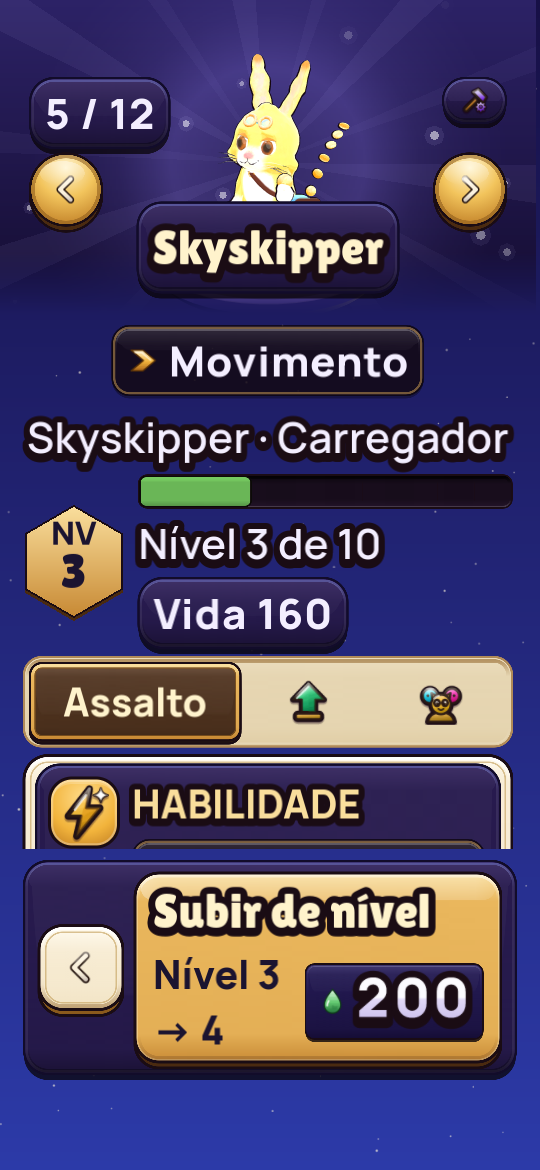
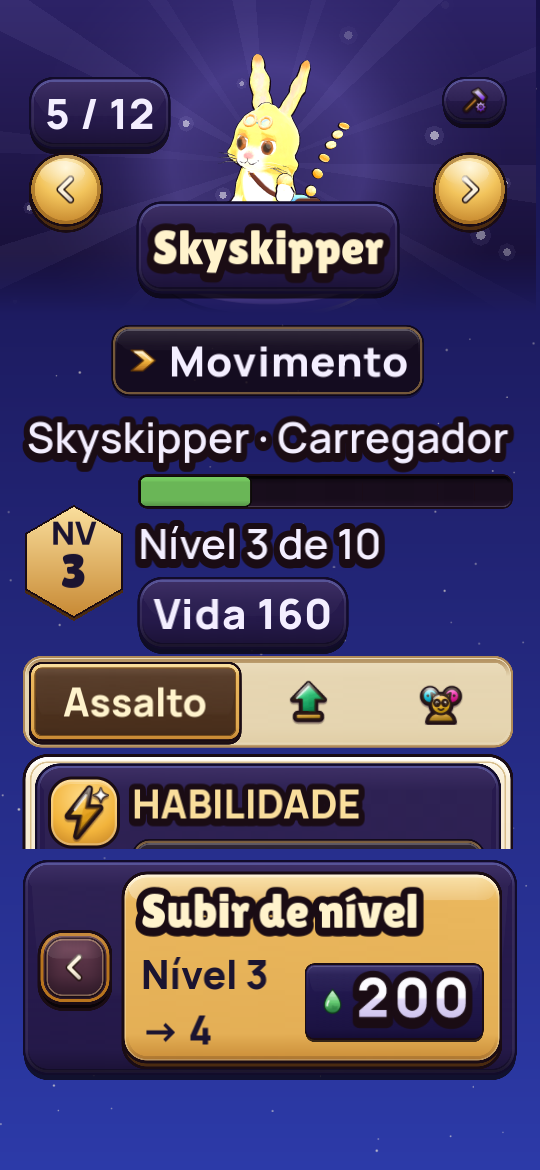
S3: P3-S3-nav-1 stills re-shot and named; the back named in the record; S3-R40, S3-R41 asked
Claude-Session: https://claude.ai/code/session_01SNkKxqvCzT3bnuPzL5KvLH

Changed region(s): [[0.0593, 0.7385, 0.8296, 0.9231]]

diff --git a/docs/progress/S3.md b/docs/progress/S3.md
@@ -1,9 +1,9 @@
 # S3 character and settings screens: progress
 
-- Status: Waiting. P3-S3-character-5 (the kit's calls on the character screen, AD-R53, AD-R58) is ready at 3053cf6d (pre-check PASS, 16:54:36Z, recorded); AD previewed it in P3-AD-preview-1 (S3-R34).
-- Progress: P2-S3-character-4 and P2-S3-account-4 ready earlier. P3-S3-character-5: five local fixes replaced by the kit's calls, the offline notice on the cream plate, the large-text outline measured at 12.5% to 14% a side at 200% pt_BR.
-- Done: the kit's calls (S3-R9 to S3-R14), AD-R53, AD-R58; `fit_character.sh` 50 of 50.
-- Next: the lead's gate and merge; AD's preview (P3-AD-preview-1).
+- Status: Working. P3-S3-nav-1 (AD-R50, AD-R51, AD-R63, AD-R64 on the character and roster screens) is built and its stills re-shot; the checks, main merged, the pre-check and ready remain. P3-S3-character-5 is ready at 3053cf6d.
+- Progress: P3-S3-nav-1: the character's back is ScreenNav.back_button and routes to the roster with its kept state; the roster keeps its scroll and chosen character; the offline notice is info, one line at large text. Mount tests in run.gd; 19 stills re-shot, every one fit ok.
+- Done: AD-R50, AD-R51, AD-R63, AD-R64; `fit_character.sh` 53 of 53.
+- Next: the checks, main merged, the pre-check, the owners diff and ready; AD's preview (S3-R40).
 - Blocked by: none.
 - Owner decision needed: none.
 
@@ -19,8 +19,16 @@
 | P2-S3-account-4: board 5c's M (AD-R43), the sign-outs on the account card | 1 | ready at 635c33ee, pre-check PASS | `docs/art/tracks/menu-screens.md` Part 3 "Board 5c's objection M"; `docs/art/shots/menu-screens/settings-account-signed-*`, `settings-200-de-account-signed*`; `fit_settings.sh` |
 | P2-S3-character-4: the gate's display-type fail at a6d5f2fb (200% text, pt_BR) | 1.5 | ready at ee67dcea, pre-check PASS; S3-R31 default applied | `docs/art/tracks/menu-screens.md` Part 2 "The gate's display-type check at a6d5f2fb"; `docs/art/shots/menu-screens/character-200-*`; `fit_character.sh` |
 | P3-S3-character-5: the kit's calls on the character screen, the cream notice (AD-R53), the outline measured (AD-R58) | 1 | ready | `docs/art/tracks/menu-screens.md` Part 2 "The kit's calls, the cream notice and the outline measured (P3-S3-character-5)"; `client/scripts/character_screen.gd`; `fit_character.sh` |
+| P3-S3-nav-1: ScreenNav's back on the character (AD-R50), the roster's state kept (AD-R51), the offline notice as info in one line (AD-R63, AD-R64) | 1.5 | built; checks and ready pending | `docs/art/tracks/menu-screens.md` Part 2 "ScreenNav's back, the roster kept, and the offline notice as information (P3-S3-nav-1)"; `client/tests/run.gd` AD-R50 and AD-R51 tests; `docs/art/shots/menu-screens/character-*`, `roster-offline*`; `fit_character.sh` |
 
 ## Handoff
+- P3-S3-nav-1, built (2026-11-17T19:05Z). AD's navigation audit (AD-R50, AD-R51) and preview-1 (AD-R63, AD-R64) on the character and roster screens. The notes are in `docs/art/tracks/menu-screens.md`, Part 2, "ScreenNav's back, the roster kept, and the offline notice as information (P3-S3-nav-1)".
+  - **AD-R50.** The character's back is `ScreenNav.back_button(&"roster")`, the kit's icon button ("Back", "Voltar", "Zurück", 52 pt), its pressed signal rewired to go to the roster with the roster's kept state (S3-R37: `back_button` takes no params). A mount test in `run.gd` (`_backs`) opens every non-tab route, asks for exactly one "back" and presses it into the route's back route: ten routes pass; fourteen are in `NO_BACK` with a reason each (S3-R38).
+  - **AD-R51.** `RosterScreen.kept()` hands the chosen character, the filter and the scroll to the character screen, which carries them through prev and next and hands them back. Mount test in `run.gd`; it fails under the mutation that drops the kept state.
+  - **AD-R63 and AD-R64.** `ERR_OFFLINE` is `UI.set_status(…, "info", …)` on both screens (`RosterScreen.plain`; `failed` keeps "error" for other codes). At large text `RosterScreen._one_line` shrinks it to one line (no smaller than the body's 100%; about 122% in pt_BR, S3-R39) with the full sentence as its `accessibility_name`. `fit_character.sh` now has OFFLINE=1 at 100% en and at 200% pt_BR and de: 53 of 53 `fit ok`.
+  - **Stills (named in the track).** Every character still changed only in its bottom row (the back, and Level up 8.67 points wider); the offline stills show the info notice on one line; new: `character-offline-200-de`, `roster-offline`, `roster-offline-200-pt_BR`, `roster-offline-200-de`. The records name the back "back 5: Back". Board 5 stands.
+  - **The back's value step.** `checks.py value-steps` fails the kit's icon back on the night in standard contrast (ΔL* 10.1, one step, two asked); it passes in high contrast. It is the kit's button on every `ScreenNav` dock; not loosened, asked of K1 through the lead (S3-R41).
+  - **Requests.** S3-R40 to AD: the preview of the stills, and whether the character wears the kit's icon back (this build) or settings' labelled parchment "« Back" (F4 assumed settings was on `ScreenNav.back_button`; it is not). Blocking, due 21:00Z; default: the stills stand as named and ready at the pre-checked sha. S3-R41 to the lead for K1 (not blocking).
 - P3-S3-character-5, ready (2026-11-17T16:00Z). S3-R34 answered by the lead in cycle 128: AD previews the stills in P3-AD-preview-1 (at this sha while it is ready, or on main once merged), and the default's ready at the pre-checked sha stands meanwhile. Pre-check at 3053cf6d: PASS (16:54:36Z, "All checks passed.", recorded); `ready_sha` and `gate_request` there (character at 200% text, pt_BR: Hierarchy). Main then moved to 55c4913f (lead cycles 129 and 130), which touches only lead files (backlog.json, lead.md, lead-archive.md, requests.md, status/lead.json), so 3053cf6d is not re-merged and its checks stand. AD's preview (P3-AD-preview-1, `boards/preview-1.md`) raised AD-R63 (the offline notice in alarm red on the cream plate) and AD-R64 (at 200% pt_BR the offline notice takes four lines; M40-dependent); neither holds character-5, and the lead accepted both in cycle 129 as one S3 follow-up task seeded when character-5 merges. The notes are in `docs/art/tracks/menu-screens.md`, Part 2, "The kit's calls, the cream notice and the outline measured (P3-S3-character-5)".
   - **The kit's calls, each replacing a local fix.** `_tabs` → `KitNav.segmented(options, tab, _pick_tab, true, true)` (S3-R9). The ability card's measures → `KitCards.ability(…, "", true)` (S3-R10, S3-R14). `_blend_foot` → `stage.blend_foot = true` (S3-R11). The hex's scaled size → `KitHex.make(kicker, number)`, which grows itself (S3-R12). `_compact` and `_untrack_when_tight` → `KitCards.fact(icon, kicker, words, "", true)` (S3-R13, S3-R14). The screen loses 146 lines and gains 61. At 100% text in en, pt_BR and de, on every tab, and in high contrast, the stills are pixel for pixel as before.
   - **AD-R53.** The status line, the offline notice among others, stands on `StageHeroSkin.plate`, the roster's cream plate, with `UI.status`'s words (alarm red when offline). `screen_character.gd` takes `OFFLINE=1` to fail the roster's load and show it.

diff --git a/docs/art/tracks/menu-screens.md b/docs/art/tracks/menu-screens.md
@@ -308,6 +308,30 @@ In window pixels, `outline_size` is now 55 on the unshrunk subtitle (12% of 96 i
 - **Draw calls** at 200% in pt_BR are 70, against 69; at 100% and in high contrast 91, as before; the offline still at 200% in pt_BR, 71.
 - **Fit check:** `fit_character.sh` (lesson M26, every fixture state): 50 shots of 50 `fit ok` (exit 0).
 
+### ScreenNav's back, the roster kept, and the offline notice as information (P3-S3-nav-1)
+
+AD's navigation audit found the character screen's back was its own parchment chevron, the roster forgot where it stood when the player came back to it, and "no server is set" read as an alarm. This task gives the character screen `ScreenNav.back_button`, keeps the roster's state across the visit, and sets the offline notice as information.
+
+- **AD-R50, one back.** The character screen's bottom row ends in `ScreenNav.back_button(&"roster")`, the back of every screen on `ScreenNav`'s dock (law, profile, share, shop, social, track, weaving and workshop; `after-profile-100.png` shows it): the kit's icon button (`KitNav.back`), maroon leather with its gold rim, 52 points, named "Back" ("Voltar", "Zurück"), in place of the cream parchment chevron of 56 points named after the roster. The screen wraps it so the button goes to the roster with the roster's kept state (below); its look and its name are the kit's. Level up, beside it, takes the 8.67 points the narrower back leaves (in the records, x 97.5 → 88.83, width 264.33 → 273).
+- **The mount test (AD-R50).** `client/tests/run.gd` opens every route of `Router.ROUTES` that is not a tab through the router, finds the buttons that carry `ScreenNav`'s "back" meta, asks for exactly one on each, presses it and checks the router lands on the route's back route. Fourteen routes have no back yet (`NO_BACK` in `run.gd`, S3-R38): heist, result, age and first keep none by design; the other ten are their owners' screens and move onto `ScreenNav` in their owners' tasks. The test covers the ten routes that have one.
+- **AD-R51, the roster kept.** The roster hands the character screen what it showed (`RosterScreen.kept()`: the chosen character on the stage, the filter and the scroll), the character screen carries it through its prev and next arrows, and its back hands it back. The roster restores the chosen character and the filter at once, and the scroll once the list has its height (up to four frames). A mount test in `run.gd` scrolls the roster, chooses a character, opens one, goes back and asks for the same scroll and the same chosen character.
+- **AD-R63, information, not alarm.** `ERR_OFFLINE` ("no server is set") is set with `UI.set_status(status_label, "info", …)` on the roster and the character screen (`RosterScreen.plain`), so it shows in the info ink with the ⓘ glyph on the cream plate. Red with "!" stays for real refusals (`RosterScreen.failed` keeps `"error"` for any other code).
+- **AD-R64, one line at large text.** At large text the offline notice is one line: `RosterScreen._one_line` shrinks its words until they fit the plate's width, no smaller than the body's 100% size, and sets the full sentence as the label's `accessibility_name`. In pt_BR at 200% that is about 122% (S3-R39: the shrink stays unless the words are shortened in `client/i18n/strings.csv`, which this task does not own).
+- **The record.** `screen_character.gd`'s record names the back by `ScreenNav`'s "back" meta, so it reads "back 5: Back" ("back 5: Roster" before), rather than "button 5".
+- **Settings is not on `ScreenNav`'s back.** Flow board 2's F4 says settings uses `ScreenNav.back_button`, the dock's "« Back". It does not: `settings_screen.gd` builds its own labelled parchment "« Back" (with the "back" meta, so AD-R50's test counts it). The character screen now wears what the other `ScreenNav` screens wear, the icon button, not settings' labelled one (S3-R40 asks AD which it wants).
+
+#### Evidence
+
+Rendered on this task's code with `FIT=1` (and `RECORD=1` for the recorded ones) and the env of Part 2's tables, against the committed stills. Every still printed `fit ok`.
+
+- **Changed, only in the bottom row:** every character still not offline (`character-100`, `-100-de`, `-100-pt_BR`, `-100-stats`, `-100-compare`, `character-hc`, `-hc-pt_BR`, `character-200-{en,pt_BR,de}`, `-200-{en,pt_BR,de}-4`, `-200-pt_BR-scrolled`, `-200-pt_BR-stats`, `-200-pt_BR-compare`). The parchment chevron becomes `ScreenNav`'s back and Level up widens by its difference; the stage, the tabs, the hexagon, the cards and the facts are where and as they were. Board 5 stands: the next arrow, the subtitle, the tabs and the info grid are on the first screen and within the phone's width.
+- **Changed, the notice:** `character-offline.png` (100%, English) shows the notice in the info ink with ⓘ, not red with "!". `character-offline-200-pt_BR.png` shows it on one line, not four, so the tabs are back on the first screen in that state; the ability card's header is still under the dock there (AD's O2 met in part). Shrunk below 20 points, the notice drops out of that still's record, which lists words from 20 points up.
+- **New:** `character-offline-200-de.png` (with its `.shot.json`), `roster-offline.png`, `roster-offline-200-pt_BR.png` and `roster-offline-200-de.png` (`screen_roster.gd` now takes `LOCALE` and `OFFLINE`). The roster's cards at 200% predate this task and are not changed by it.
+- **The back's value step (S3-R41).** `checks.py value-steps` fails the new back on every recorded still in standard contrast: its leather face reads L* 23.7 on a ground of 13.6 at 100% English (ΔL* 10.1, one value step; it needs two). The cream chevron it replaces passed. In high contrast it passes. It is the kit's button, the same on the eight other `ScreenNav` screens, none of which has a record, so the check had not met it before. Its gold rim is what parts it from the night. The check is not loosened; S3-R41 asks the lead for a K1 task on `KitControls.icon_button`'s face, and the back stays the kit's meanwhile (AD-R50). The other controls in each record pass as before.
+- **Not this task's:** the notice's cream plate draws in the status bar's band, as it did before this task (P3-S3-character-5).
+- **Tests:** in `client/tests/run.gd`, AD-R50's mount test passes on the ten routes with a back, and AD-R51's passes. AD-R51's was proved by mutation: with the character screen's back going to the roster without the kept state, it fails ("left as chosen 6, scroll 240, came back as chosen -1, scroll 0").
+- **Fit check:** `fit_character.sh` (lesson M26, every fixture state, now with the offline notice at 100% in English and at 200% in pt_BR and de): 53 shots of 53 `fit ok` (exit 0).
+
 ## Part 3: the settings screen (P2-S3-settings)
 
 ### What was done
